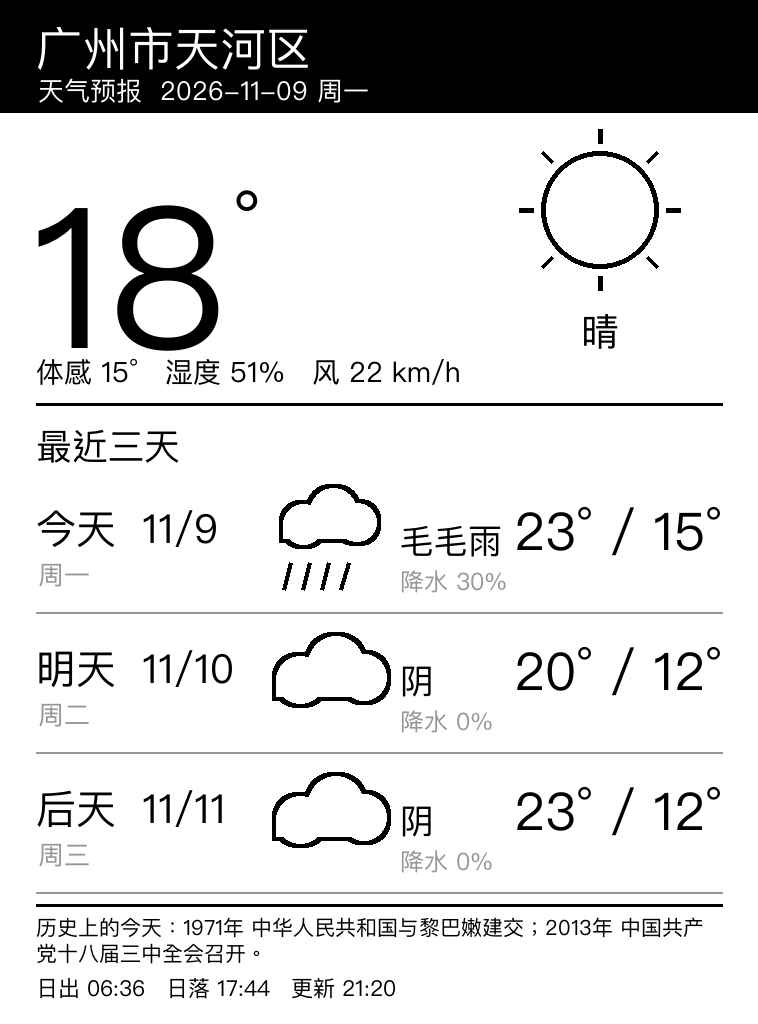
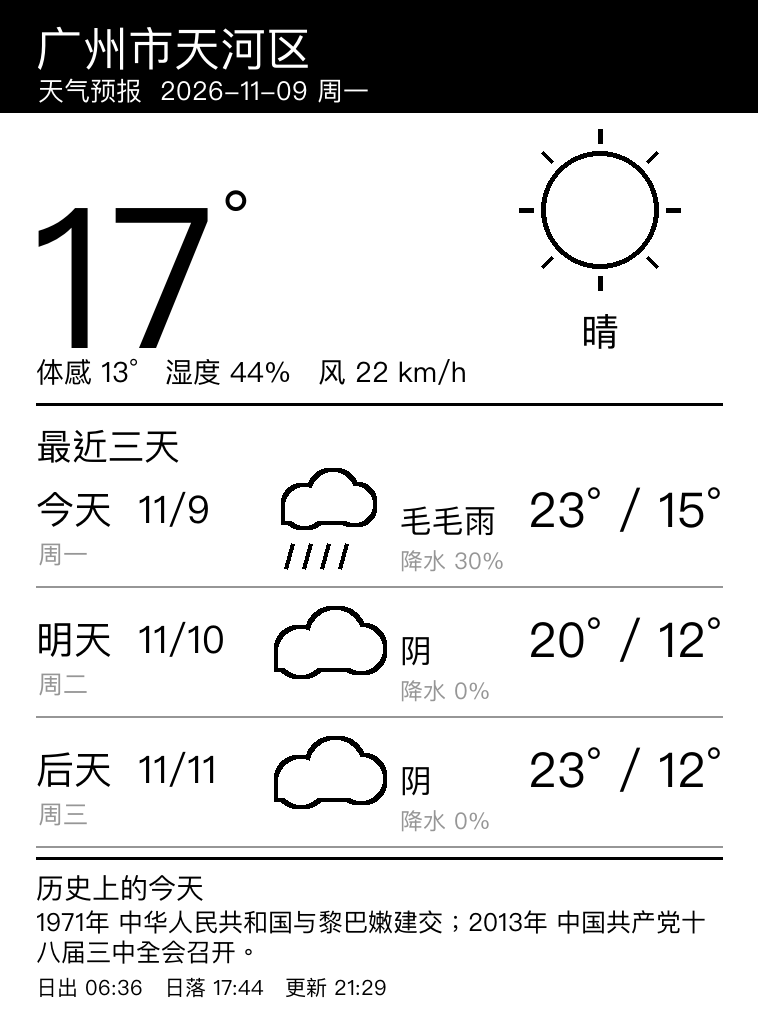
feat: enlarge Today-in-History block on weather screensaver

diff --git a/gen_weather.py b/gen_weather.py
@@ -256,9 +256,9 @@ def history_for(month, day):
             other.append(item)
     if not cn and not other:
         return ""
-    # 选取策略：涉华优先、同池内短的优先；贪心凑 2 条，总长控制在两行预算内，
-    # 避免屏保上文字被截断（约 32 字/行 × 2 行，扣除前缀与分隔符）
-    budget = 50
+    # 选取策略：涉华优先、同池内短的优先；贪心凑 3 条，总长控制在三行预算内，
+    # 给「历史上的今天」更大展示空间（约 27 字/行 × 3 行，扣除分隔符）
+    budget = 75
     cand = sorted(cn, key=lambda x: len(x[1])) + sorted(other, key=lambda x: len(x[1]))
     picked, used = [], 0
     for y, t in cand:
@@ -279,7 +279,7 @@ def history_for(month, day):
         except Exception:
             yl = ""
         parts.append((yl + " " + t).strip() if yl else t)
-    return "历史上的今天：" + "；".join(parts) + "。"
+    return "；".join(parts) + "。"
 
 
 def wrap_text(d, text, f, max_w):
@@ -338,24 +338,24 @@ def render(data, w, h, live):
     # ===== 三天预报 =====
     d.text((S(36), T(420)), "最近三天", font=font(T(36)), fill=BLACK)
     names = ["今天", "明天", "后天"]
-    row_y = [T(486), T(626), T(766)]
+    row_y = [T(470), T(600), T(730)]
     for i in range(3):
         y = row_y[i]
         dt = datetime.strptime(dl["time"][i], "%Y-%m-%d")
         label = "%s  %d/%d" % (names[i], dt.month, dt.day)
-        d.text((S(36), y + T(14)), label, font=font(T(40)), fill=BLACK)
-        d.text((S(38), y + T(70)), "周" + WEEK[dt.weekday()], font=font(T(26)), fill=GRAY)
+        d.text((S(36), y + T(12)), label, font=font(T(38)), fill=BLACK)
+        d.text((S(38), y + T(66)), "周" + WEEK[dt.weekday()], font=font(T(25)), fill=GRAY)
 
-        draw_icon(img, icon_kind(dl["weather_code"][i]), S(320), y + T(48), S(74), lw=max(3, S(4)))
+        draw_icon(img, icon_kind(dl["weather_code"][i]), S(320), y + T(46), S(70), lw=max(3, S(4)))
         d = ImageDraw.Draw(img)
-        d.text((S(400), y + T(30)), WMO.get(dl["weather_code"][i], "—"), font=font(T(34)), fill=BLACK)
+        d.text((S(400), y + T(28)), WMO.get(dl["weather_code"][i], "—"), font=font(T(32)), fill=BLACK)
         pop = dl.get("precipitation_probability_max", [None] * 3)[i]
-        d.text((S(400), y + T(78)), "降水 %s%%" % (pop if pop is not None else "—"),
-               font=font(T(24)), fill=GRAY)
+        d.text((S(400), y + T(74)), "降水 %s%%" % (pop if pop is not None else "—"),
+               font=font(T(23)), fill=GRAY)
 
         hi, lo = round(dl["temperature_2m_max"][i]), round(dl["temperature_2m_min"][i])
-        text_r(d, (w - S(36), y + T(8)), "%d° / %d°" % (hi, lo), font(T(52)))
-        d.line([(S(36), y + T(126)), (w - S(36), y + T(126))], fill=GRAY, width=max(1, S(2)))
+        text_r(d, (w - S(36), y + T(6)), "%d° / %d°" % (hi, lo), font(T(48)))
+        d.line([(S(36), y + T(116)), (w - S(36), y + T(116))], fill=GRAY, width=max(1, S(2)))
 
     # ===== 历史上的今天（屏保展示） =====
     try:
@@ -364,22 +364,24 @@ def render(data, w, h, live):
     except Exception:
         hist = ""
 
-    # ===== 底部信息 =====
-    d.line([(S(36), T(905)), (w - S(36), T(905))], fill=BLACK, width=max(2, S(3)))
-    y = T(912)
+    # ===== 历史上的今天（独立区块，更大空间） =====
+    d.line([(S(36), T(858)), (w - S(36), T(858))], fill=BLACK, width=max(2, S(3)))
+    y = T(868)
+    d.text((S(36), y), "历史上的今天", font=font(T(28)), fill=BLACK)
+    y += T(36)
     if hist:
-        hf = font(T(21))
-        for ln in wrap_text(d, hist, hf, w - 2 * S(36))[:2]:
+        hf = font(T(25))
+        for ln in wrap_text(d, hist, hf, w - 2 * S(36))[:3]:
             d.text((S(36), y), ln, font=hf, fill=BLACK)
-            y += T(26)
+            y += T(30)
         y += T(8)
     else:
-        y = T(924)
+        y += T(8)
     sr = dl["sunrise"][0][-5:]
     ss = dl["sunset"][0][-5:]
     upd = fetched[-5:] if len(fetched) >= 5 else fetched  # 只取 HH:MM
     d.text((S(36), y), "日出 %s   日落 %s   更新 %s%s" % (sr, ss, upd, "" if live else " (缓存)"),
-           font=font(T(22)), fill=BLACK)
+           font=font(T(21)), fill=BLACK)
     return img
 
 
